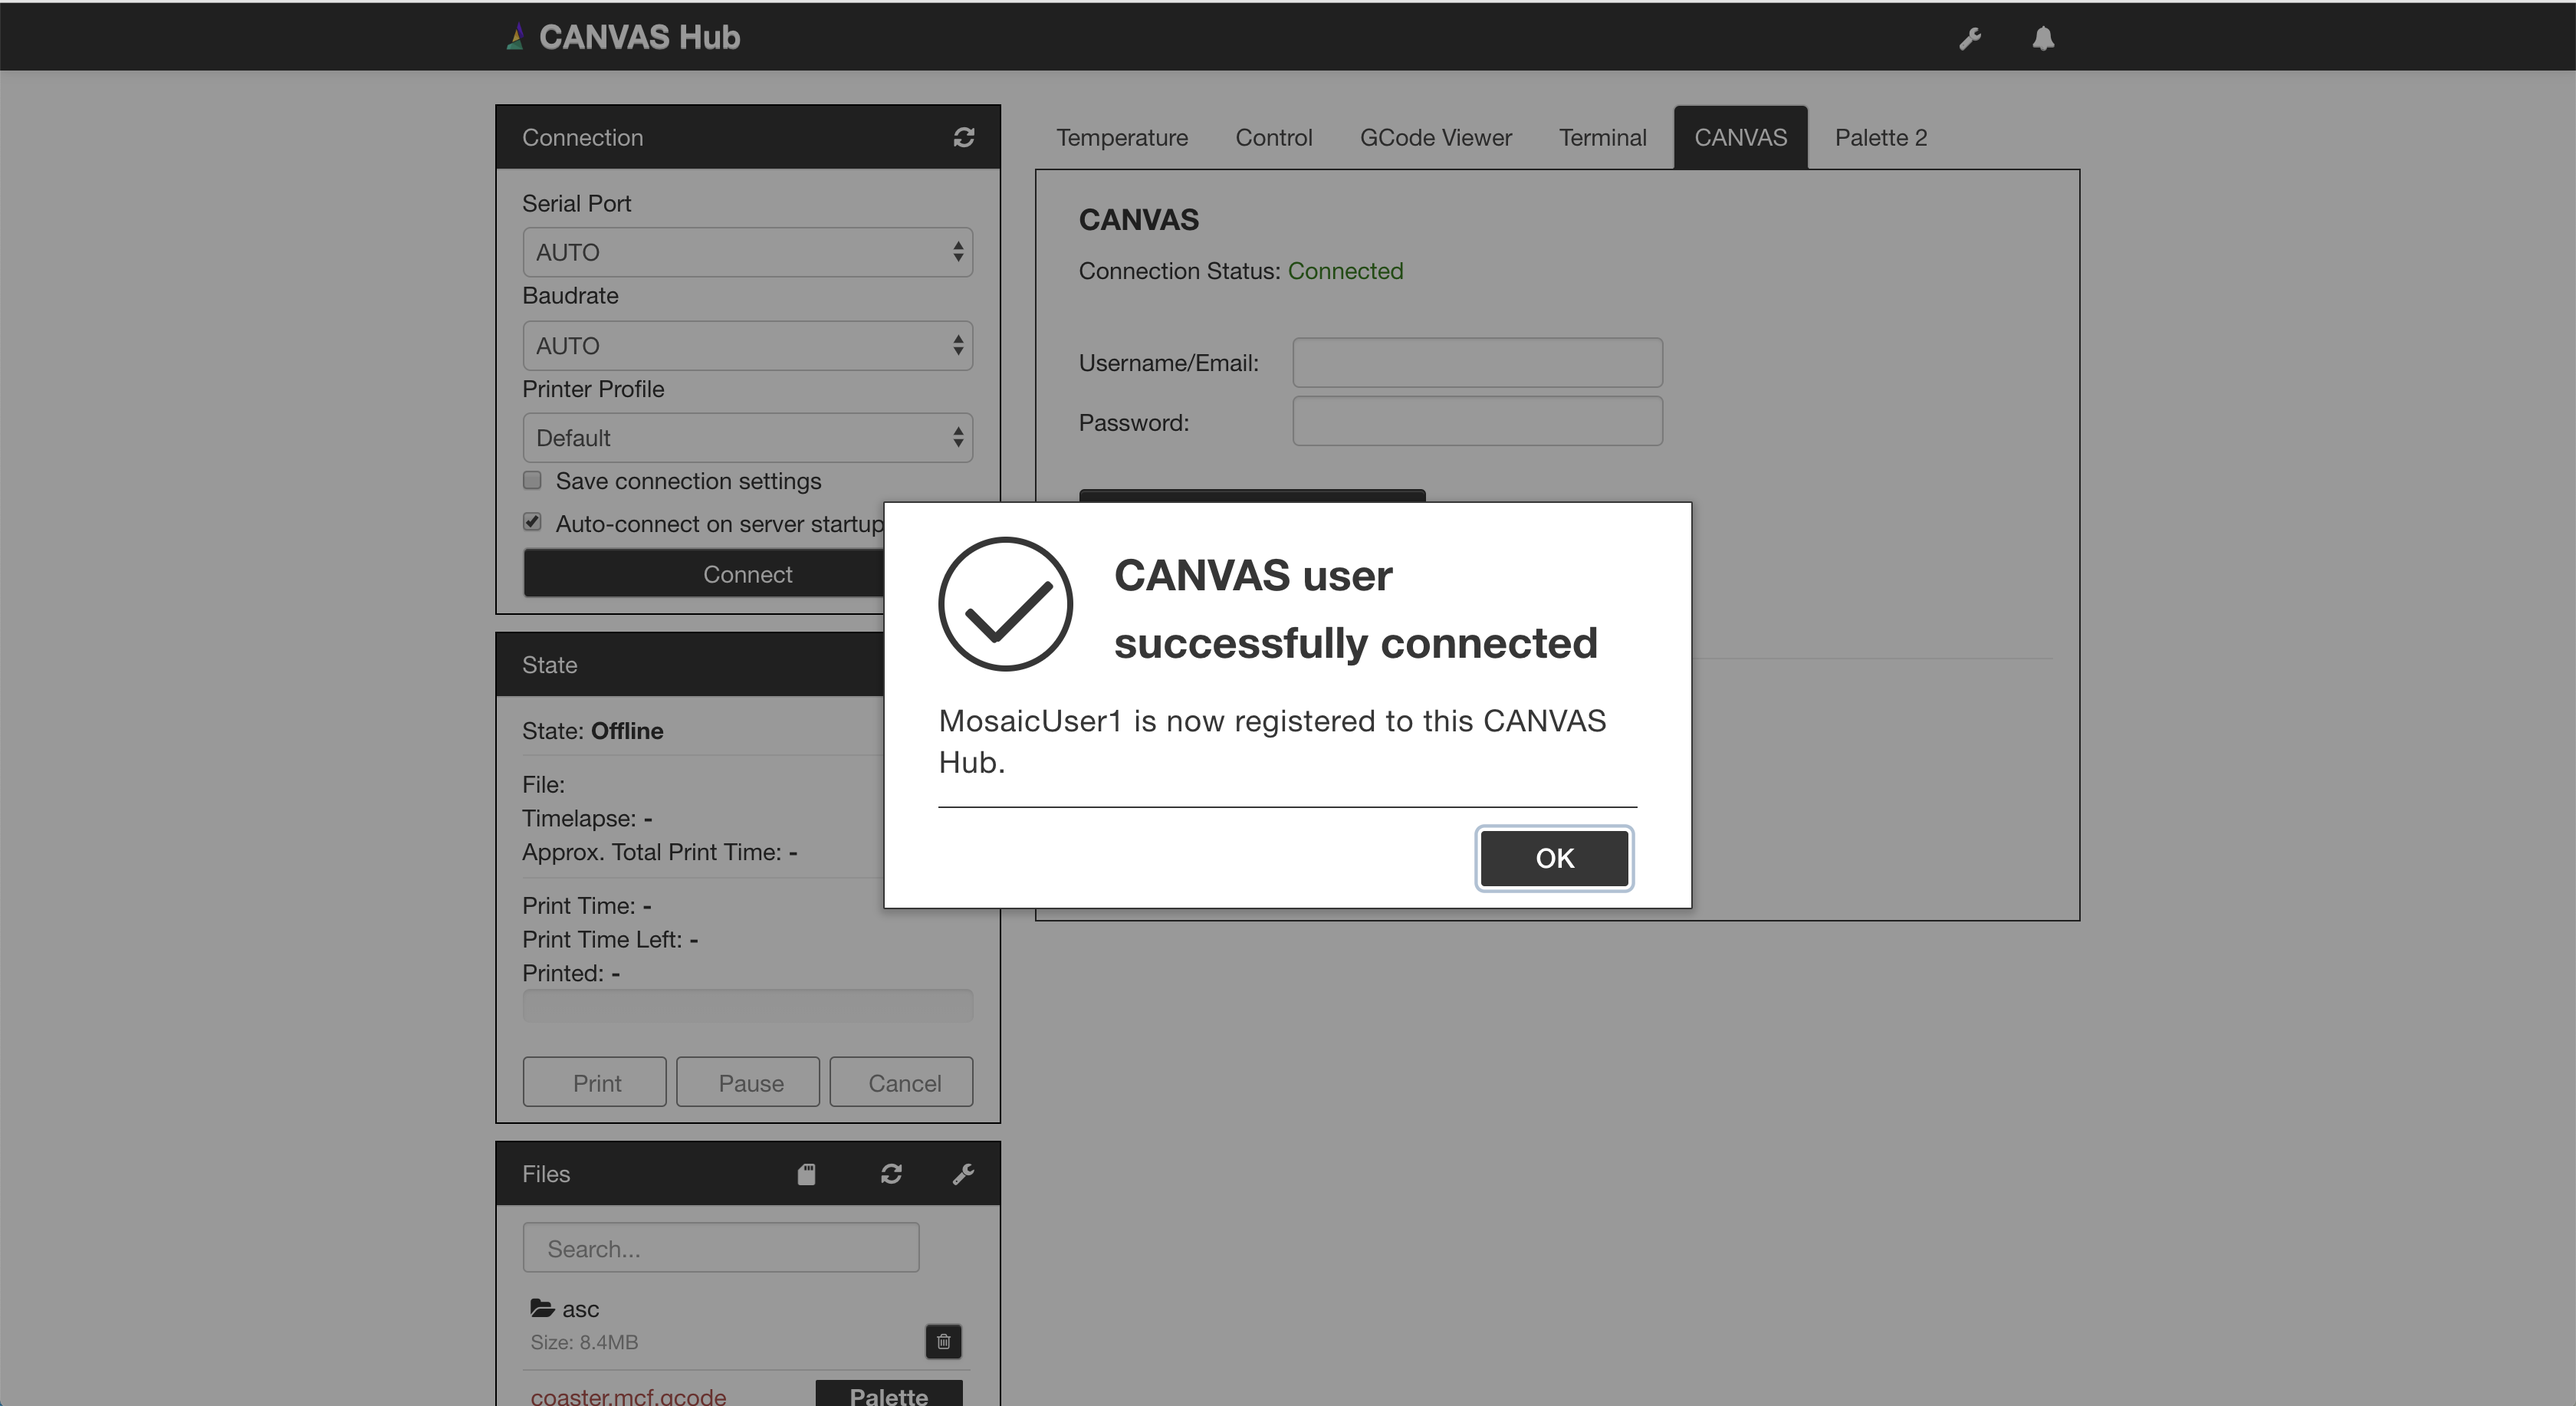
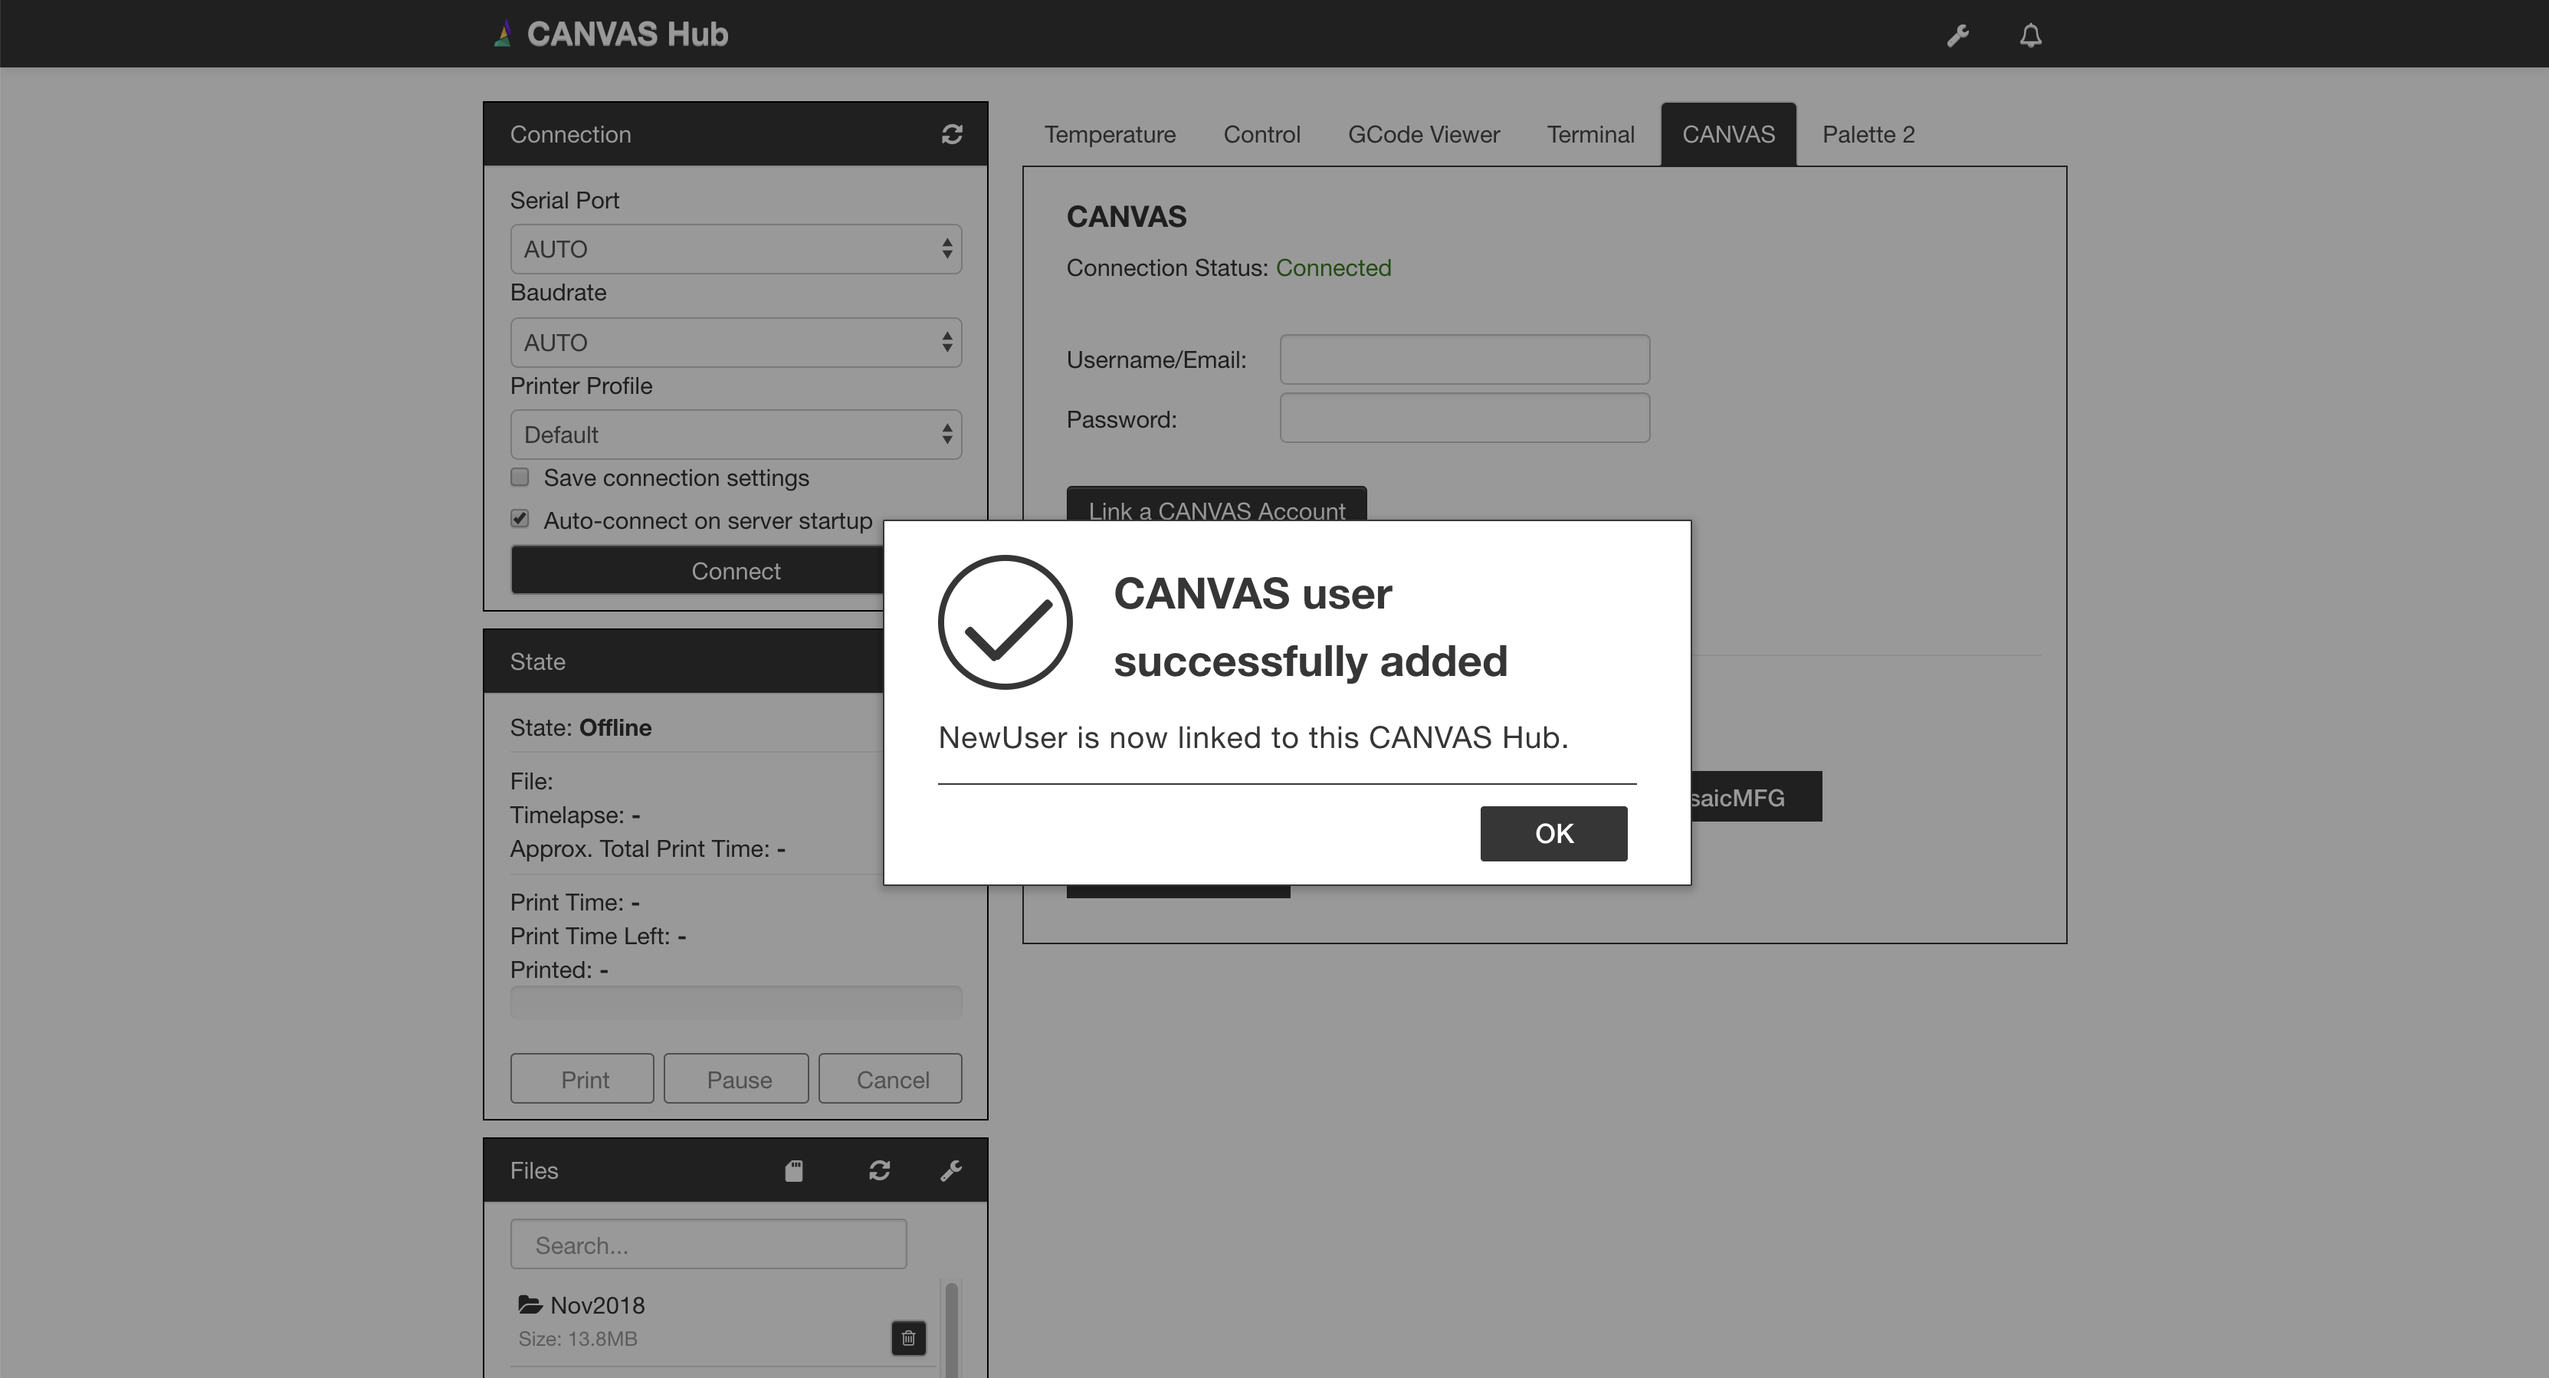
modified README and changed wording for alerts to avoid confusing the user

diff --git a/octoprint_canvas/static/js/canvas.js b/octoprint_canvas/static/js/canvas.js
@@ -290,16 +290,16 @@ canvasApp.addNotificationList = () => {
 canvasApp.userAddedSuccess = username => {
   return swal({
     type: "success",
-    title: "CANVAS user successfully connected",
-    text: `${username} is now registered to this CANVAS Hub.`
+    title: "CANVAS user successfully added",
+    text: `${username} is now linked to this CANVAS Hub.`
   });
 };
 
 canvasApp.userExistsAlready = username => {
   return swal({
     type: "info",
-    title: "CANVAS user already registered",
-    text: `${username} is already registered to this CANVAS Hub.`
+    title: "CANVAS user already linked",
+    text: `${username} is already linked to this CANVAS Hub.`
   });
 };
 

diff --git a/README.md b/README.md
@@ -20,7 +20,7 @@ On your OctoPrint server, manually install this plugin via the Plugin Manager us
 
 ### 3. To OctoPrint
 
-![CANVAS FILE RECEIVED](./extras/CANVAS_HUB_FILE_RECEIVED_SCREENSHOT.png)
+![CANVAS FILE RECEIVED](./extras/CANVAS_HUB_FILE_ADDED.png)
 
 ## Authors
 
